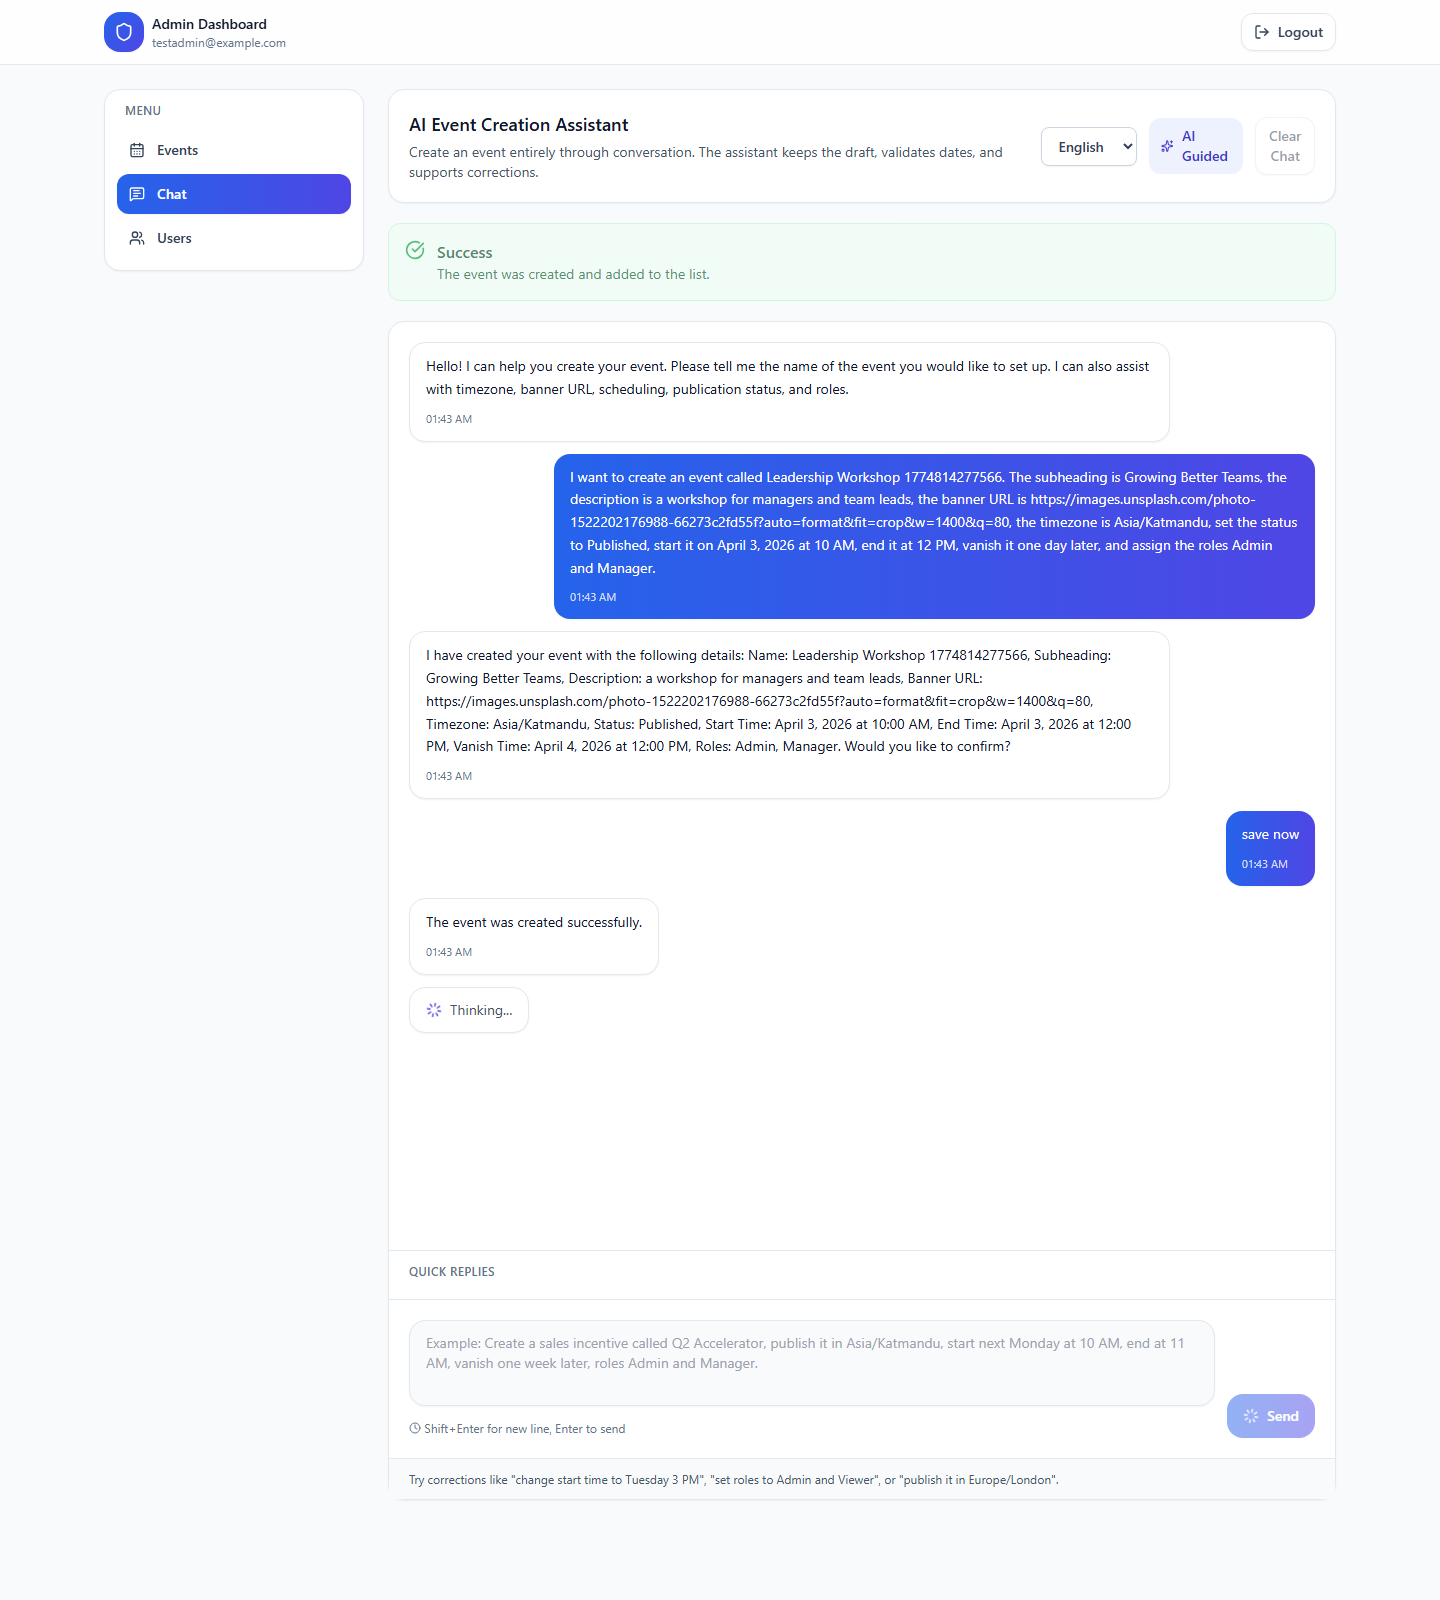
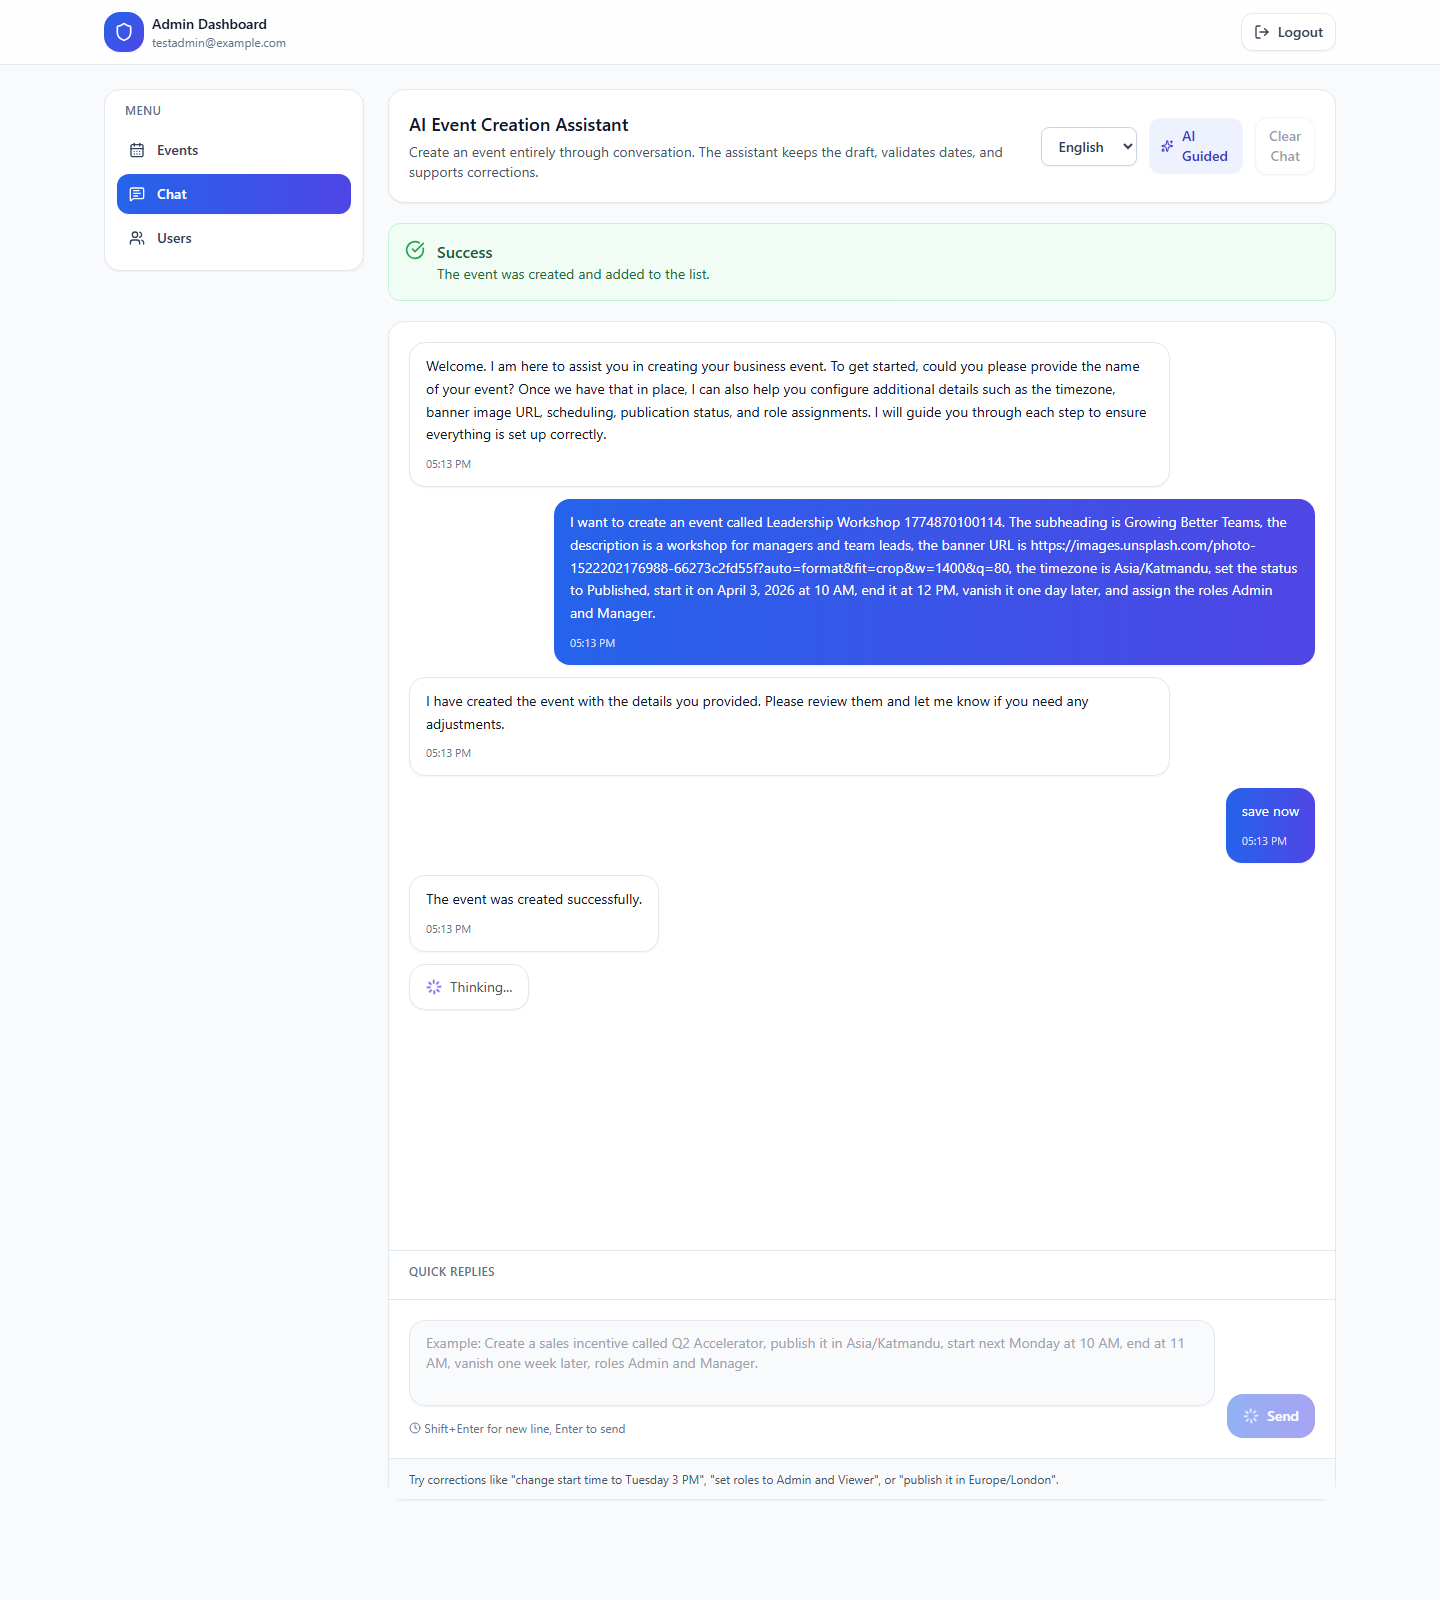
deployment issue fix

diff --git a/screenshots/README.md b/screenshots/README.md
@@ -8,13 +8,17 @@ Add the final project screenshots here using these filenames:
 - `admin-dashboard.png`
 - `chat-interface.png`
 - `event-confirmation.png`
+- `event-update-conversation.png`
 - `event-update.png`
 - `event-listing.png`
 - `role-based-view.png`
 - `multilingual-french.png`
 - `multilingual-spanish.png`
+- `multilingual-french-success.png`
+- `multilingual-spanish-success.png`
 - `clear-chat-session.png`
 - `conversation-flow.png`
+- `conversation-flow-stepwise.png`
 
 Recommended capture order:
 
@@ -24,13 +28,17 @@ Recommended capture order:
 4. Admin dashboard landing page
 5. Chat interface before event creation
 6. Event confirmation step after all event fields are entered
-7. Event update screen after a correction is saved
-8. Event listing page showing created events
-9. Role-based view for Manager or Sales Rep
-10. Multilingual chat flow in French
-11. Multilingual chat flow in Spanish
-12. Cleared chat session with a fresh conversation
-13. Complete conversation flow from start to save
+7. Event update conversation before confirmation
+8. Event update screen after a correction is saved
+9. Event listing page showing created events
+10. Role-based view for Manager or Sales Rep
+11. Multilingual chat flow in French
+12. Multilingual chat flow in Spanish
+13. Multilingual French flow after successful save
+14. Multilingual Spanish flow after successful save
+15. Cleared chat session with a fresh conversation
+16. Complete conversation flow from start to save
+17. Stepwise conversation flow using 2 to 3 chat messages
 
 Keep the screenshots clean and readable:
 
@@ -80,12 +88,16 @@ Useful step names:
 - `multilingual`
 - `multilingual-fr`
 - `multilingual-es`
+- `multilingual-success`
+- `multilingual-success-fr`
+- `multilingual-success-es`
 - `password-reset`
 - `role-view`
 - `create`
 - `update`
 - `listing`
 - `clear-session`
+- `conversation-stepwise`
 - `dashboard`
 - `chat`
 - `login`
@@ -96,7 +108,10 @@ If no step name is provided, the script runs the full capture flow.
 The chat demo is captured in several stages:
 
 - `event-confirmation.png` shows the assistant with a filled event draft and a save prompt
-- `event-update.png` shows the assistant applying a correction to an existing event
+- `event-update-conversation.png` shows the update conversation for the same event before final save
+- `event-update.png` shows the successful save state of that same updated event
 - `multilingual-french.png` and `multilingual-spanish.png` show language-aware chat replies
+- `multilingual-french-success.png` and `multilingual-spanish-success.png` show multilingual event save success states
 - `clear-chat-session.png` shows the chat reset to a fresh session
 - `conversation-flow.png` shows the same conversation after the event is saved successfully
+- `conversation-flow-stepwise.png` shows event creation collected naturally across 2 to 3 chat messages

diff --git a/Documents/project-document.md b/Documents/project-document.md
@@ -191,7 +191,15 @@ Once the images are added, this document will render them automatically.
 
 ### Event Update
 
+This screenshot shows the final saved state of the same event that appears in the update conversation flow below.
+
 ![Event Update](screenshots/event-update.png)
+
+### Event Update Conversation Flow
+
+This screenshot captures the same event during the update conversation before the final save is confirmed.
+
+![Event Update Conversation Flow](screenshots/event-update-conversation.png)
 
 ### Event Listing Page
 
@@ -208,6 +216,14 @@ Once the images are added, this document will render them automatically.
 ### Multilingual Flow - Spanish
 
 ![Multilingual Spanish](screenshots/multilingual-spanish.png)
+
+### Multilingual Save Success - French
+
+![Multilingual French Save Success](screenshots/multilingual-french-success.png)
+
+### Multilingual Save Success - Spanish
+
+![Multilingual Spanish Save Success](screenshots/multilingual-spanish-success.png)
 
 ### Clear Chat Session
 
@@ -228,6 +244,12 @@ Once the images are added, this document will render them automatically.
 ### Conversation Flow
 
 ![Conversation Flow](screenshots/conversation-flow.png)
+
+### Stepwise Conversation Flow
+
+This screenshot shows event creation happening across 2 to 3 natural chat messages instead of a single long input.
+
+![Stepwise Conversation Flow](screenshots/conversation-flow-stepwise.png)
 
 ## 7. Conclusion
 
